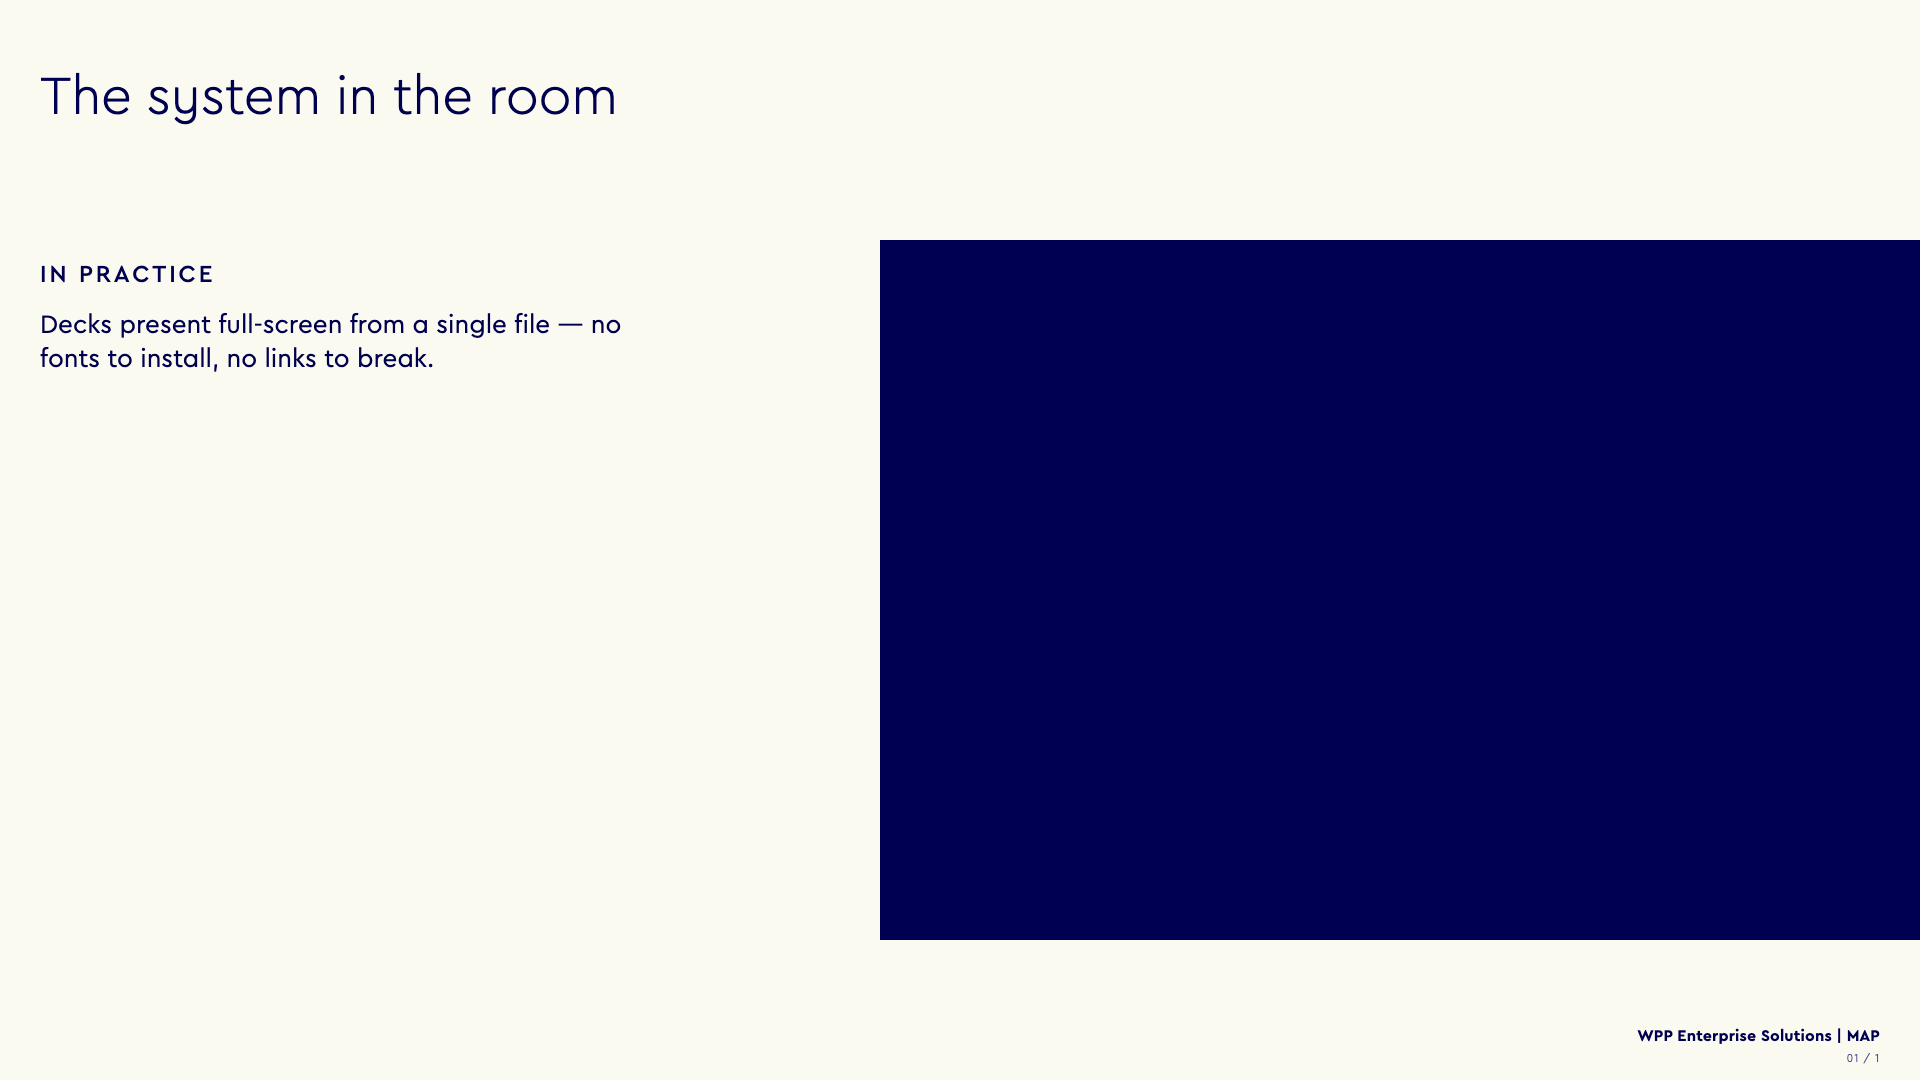
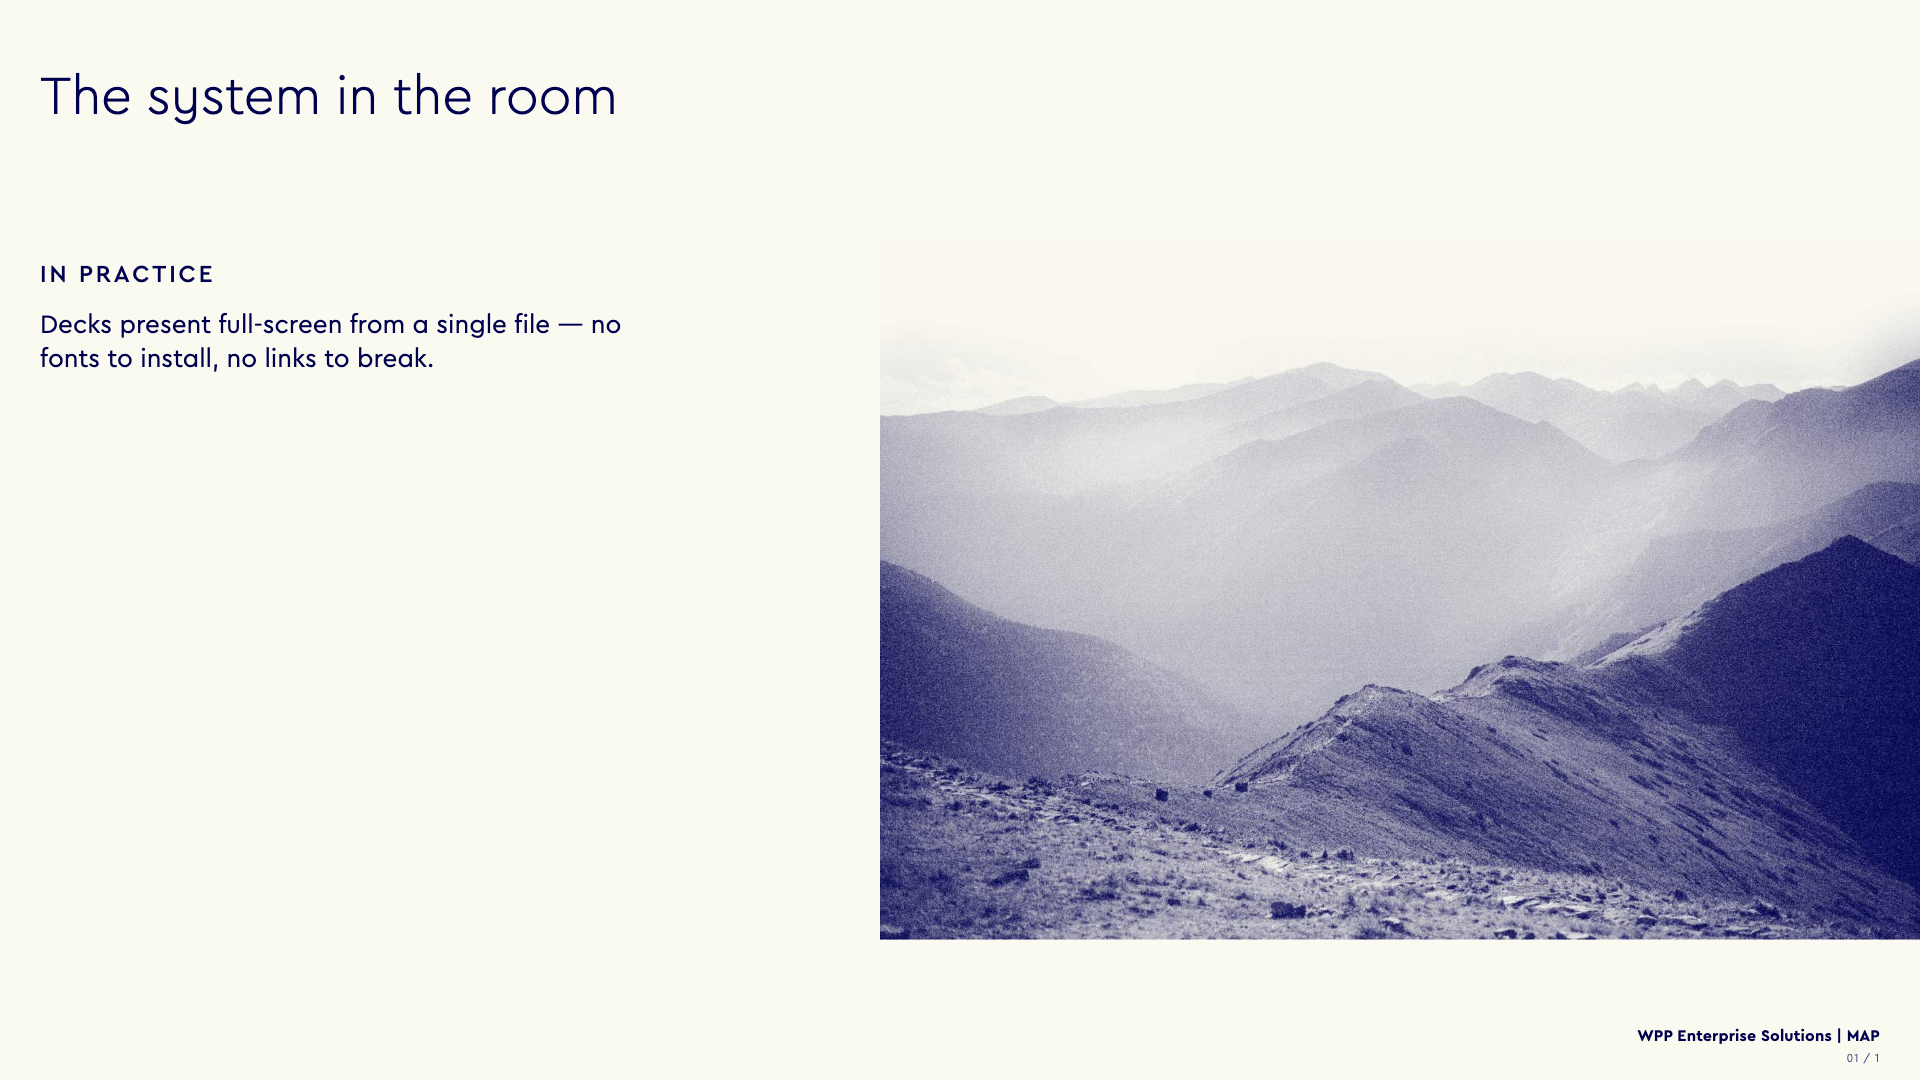
Fix the harness's media injection, and revise five verdicts because of it
shoot_snippets.py appended the <template data-asset> blocks at </body> —
after the shell's inline script that clones them into [data-motif] hosts. So
querySelector found nothing, every motif rendered empty, and eight media-led
templates were photographed as blank placeholders. The templates now go in
before the script, and the .img-*-media stand-ins get a real brand photo.

That bug produced a wrong review. Five templates were marked broken or
unjudgeable for looking empty when the harness was emptying them:

  image-content-v0   halftone coral poster        -> keep
  image-content-v2   half-bleed duotone photo     -> keep
  image-content-v4   duotone left, statement right-> keep, best media slide here
  splits-v3          orange halftone on navy      -> keep
  statement-quote-v2b statement + halftone art    -> keep
  splits-v4          headline wrap defect only    -> fix, not kill
  cards-v3           photos land, cards still thin-> fix

Revised: 21 keep, 21 fix, 9 kill, 1 unjudgeable. The one left is
image-content-v3, the screenshot treatment — injecting a brand photo would not
exercise a `.screenshot` frame honestly, so it wants a real deck.

The conclusion this inverts is worth stating: the media families are the
STRONGEST part of the kit, not the weakest. The duotone and halftone slides
carry MAP's visual language better than anything else in it, and they were the
ones nearly deleted.

diff --git a/wpp-es-html-deck/scripts/shoot_snippets.py b/wpp-es-html-deck/scripts/shoot_snippets.py
@@ -92,7 +92,14 @@ def splice(base_html, section_markup):
     end = base_html.find(FRAME_CLOSE, start)
     if end < 0:
         sys.exit("shell #frame never closes — build_shell.py output changed shape")
-    spliced = base_html[:start] + "\n" + section_markup + "\n" + base_html[end:]
+    assets, named = media_assets(section_markup)
+    section_markup = fill_media_hosts(section_markup)
+    # The asset templates must be parsed BEFORE the shell's inline script, which
+    # clones them into [data-motif] hosts on load. Appending them at </body> put
+    # them after that script, so querySelector found nothing and every motif
+    # rendered empty — which is what made these templates look broken.
+    spliced = (base_html[:start] + "\n" + section_markup + "\n"
+               + assets + base_html[end:])
     return (spliced.replace("</body>", SHOT_CHROME_KILL + "\n</body>", 1)
             if "</body>" in spliced else spliced + SHOT_CHROME_KILL)
 
@@ -104,6 +111,43 @@ def variant_markup(path):
     if i < 0:
         return None
     return src[i:]
+
+
+# --------------------------------------------------------------------------
+# media
+
+# A template that declares media renders empty in a bare shell: data-motif hosts
+# are filled at runtime by cloning an inlined <template data-asset>, and the
+# .img-*-media boxes ship a navy stand-in with a "replace me" comment. Shooting
+# without either means photographing the placeholder and calling it the
+# template — which left a sixth of the kit unreviewable on the first pass.
+SAMPLE_PHOTO = "photo-ridge"          # a real brand photo, for stand-in media boxes
+MEDIA_HOSTS = ("img-right-media", "img-half-media", "screenshot")
+
+
+def media_assets(markup):
+    """<template data-asset> blocks for every motif this template names."""
+    import build_shell as BS
+    names = sorted(set(re.findall(r'data-motif="([^"]+)"', markup)))
+    needed = [n for n in names if n in BS.MOTIF_FILES]
+    for n in names:
+        if n not in BS.MOTIF_FILES:
+            report("WARN", "media", f"template names motif {n!r}, which the shell has no file for")
+    if any(h in markup for h in MEDIA_HOSTS) and SAMPLE_PHOTO not in needed:
+        needed.append(SAMPLE_PHOTO)
+    return "".join(f'<template data-asset="{n}"><img src="{BS.motif_uri(n)}" alt=""></template>'
+                   for n in needed), needed
+
+
+def fill_media_hosts(markup):
+    """Swap the shipped navy stand-in for a real photo so the shot shows a
+    filled slide. Cosmetic to the harness, decisive to the review."""
+    if not any(h in markup for h in MEDIA_HOSTS):
+        return markup
+    return re.sub(
+        r'<div style="width:100%;height:100%;background:var\(--wpp-navy\);"></div>',
+        f'<div data-motif="{SAMPLE_PHOTO}" style="width:100%;height:100%;"></div>',
+        markup)
 
 
 # --------------------------------------------------------------------------

diff --git a/wpp-es-html-deck/canon/_shots/VERDICTS.md b/wpp-es-html-deck/canon/_shots/VERDICTS.md
@@ -10,7 +10,14 @@ C2 guardrail forbids the dead lower half, and the mechanical gate passes every
 one of these. A takeaway line at the bottom counts as anchoring; nothing at the
 bottom does not.
 
-**16 keep · 17 fix · 10 kill · 8 unjudgeable**
+**21 keep · 21 fix · 9 kill · 1 unjudgeable**
+
+> **Revised after a harness bug.** The first pass shot media-led templates with
+> no media — the asset templates were injected *after* the shell's inline
+> script, so every `data-motif` host cloned nothing and rendered empty. Five
+> templates were condemned for looking blank when the harness was blanking them.
+> `image-content` in particular turned out to be one of the strongest families
+> in the kit. Fixed in `shoot_snippets.py`; all media-led variants re-shot.
 
 ---
 
@@ -34,6 +41,11 @@ bottom does not.
 | `statement-quote-v2` | Big quote with attribution. |
 | `statement-quote-v3` | Navy poster with a giant ordinal. The best display slide in the kit. |
 | `team-v1` | Three portraits with real bios. Reasonable balance. |
+| `image-content-v0` | Halftone coral poster. One of the most striking slides in the kit. |
+| `image-content-v2` | Half-bleed duotone photo running to the canvas edge. Exactly what §15.9 asks for. |
+| `image-content-v4` | Duotone photo left, statement right. Excellent — the best media slide here. |
+| `splits-v3` | Orange halftone coral on navy, full bleed. Striking. |
+| `statement-quote-v2b` | Statement left, halftone art right. Strong display slide. |
 
 ---
 
@@ -55,12 +67,15 @@ tier grows, or something anchors the foot, or the arity drops.
 | `process-timeline-v1` | Five cards, each dead below its first third. |
 | `process-timeline-v2` | Milestone ruler, sparse — and a milestone escapes the box by 10px. |
 | `splits-v1` | Void between the lead paragraph and the KPI row. |
-| `splits-v3` | The navy half renders empty; needs its motif. |
 | `stats-v1` | Numerals top, ruler bottom, half the canvas between them. |
 | `stats-v2` | Hub is centred but the lower third is unused. |
 | `stats-v3` | Bubbles sized honestly — the good part — but the lower half is dead. |
 | `stats-v7` | Diagonal ramp leaves the entire right half empty. |
 | `team-v2` | Four across, tiny, everything in the top third. |
+| `splits-v4` | Photo bleed and text half both work — but the headline still wraps onto itself, "members" colliding with the line above. A wrap fix, not a rebuild. |
+| `cards-v3` | Photos land now, but each card is still empty below its image and title. |
+| `image-content-v1` | Duotone photo reads well, but it floats instead of bleeding (§15.9) and the lower half is unused. |
+| `image-content-v5` | Dot-halftone hero sits low-right; a lot of empty cream above it. |
 
 ---
 
@@ -76,7 +91,6 @@ tier grows, or something anchors the foot, or the arity drops.
 | `columns-v5` | Superseded by `canon/enum-numbered-4`, which does the same job from a measured original. **Retire only after the canon template has been through a real deck.** |
 | `comparison-v1` | Two pill-and-text blocks in a sea of cream. Worst in the kit. |
 | `process-timeline-v4` | Renders with its headline clipped by the top of the frame, over a mostly empty canvas. |
-| `splits-v4` | **Broken** — the headline overlaps itself, and the image half renders blank. |
 | `stats-v4` | Headline, one line of framing, a void, then numerals at the foot. |
 
 ---
@@ -87,14 +101,9 @@ Every one of these is media-led, and the harness splices templates with no
 image, so what the sheet shows is the placeholder, not the template. Condemning
 them on this evidence would be wrong.
 
-`image-content-v0` · `image-content-v1` · `image-content-v2` ·
-`image-content-v3` · `image-content-v4` · `image-content-v5` ·
-`statement-quote-v2b` · `cards-v3`
-
-**Fix the harness first.** `shoot_snippets.py` should inject a sample photo and
-motif from `assets/` when a template declares one, then re-shoot these eight.
-That is a change to the tool, not to the templates, and it is a prerequisite for
-judging a sixth of the kit.
+`image-content-v3` — the screenshot treatment. It expects a real product
+screenshot, and the harness has no sample to inject (a brand photo would not
+exercise the `.screenshot` frame honestly). Judge it against a real deck.
 
 ---
 
@@ -105,6 +114,11 @@ judging a sixth of the kit.
   bare numeral row, a scorecard, a cluster diagram, an intensity ramp. A model
   choosing "stats" is drawing a lottery ticket. Same for `image-content`, which
   spans a poster, a screenshot treatment and a duotone hero.
+- **The media families were the strongest, not the weakest.** `image-content`,
+  the duotone/halftone splits and the halftone statements carry the brand better
+  than anything else in the kit — and they were the ones nearly deleted for
+  rendering blank. Whatever else gets cut, this is where MAP's visual language
+  actually lives.
 - **`comparison` and `columns` are the weakest families**, and `comparison` is
   also one of the two the curated selection has no green slide for. Both are
   rebuild work, not repair.
